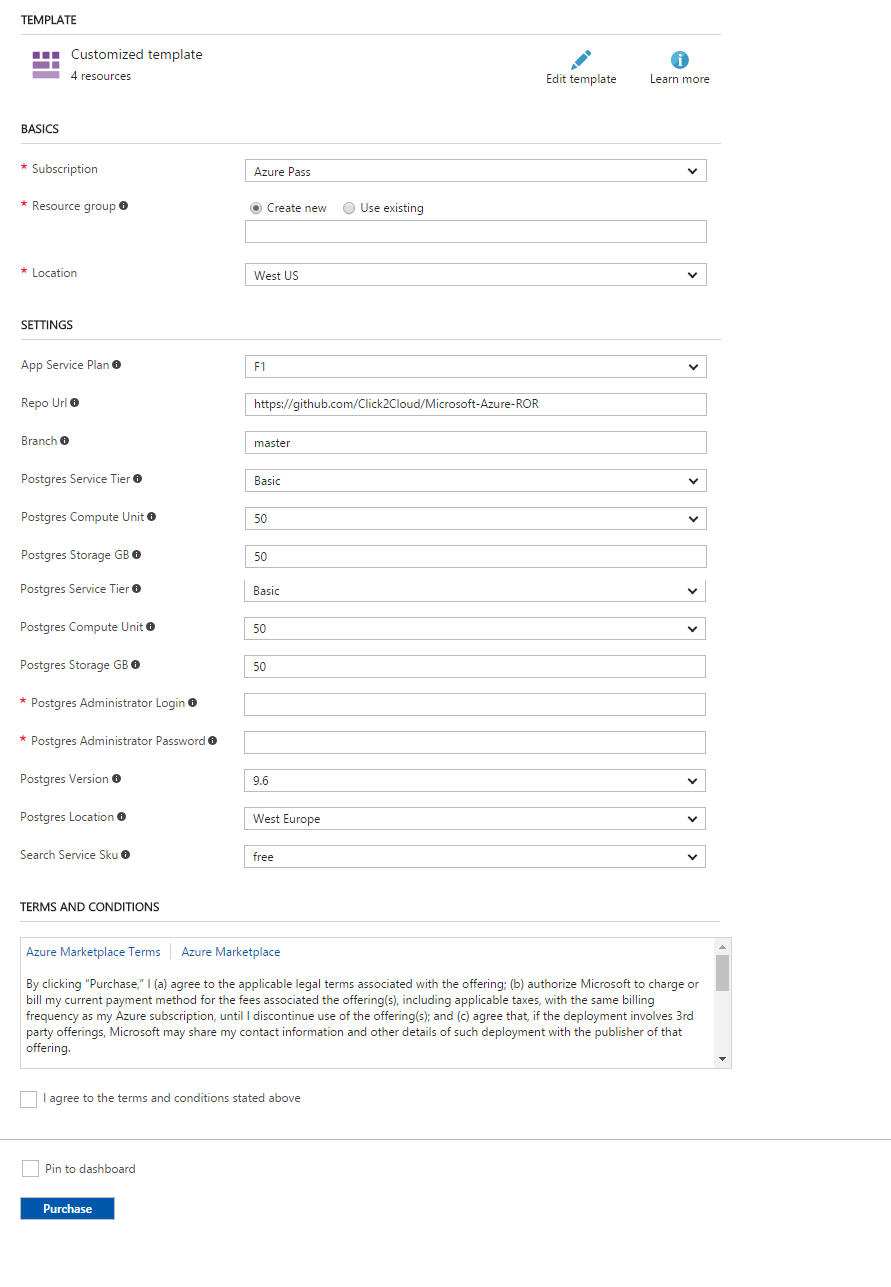
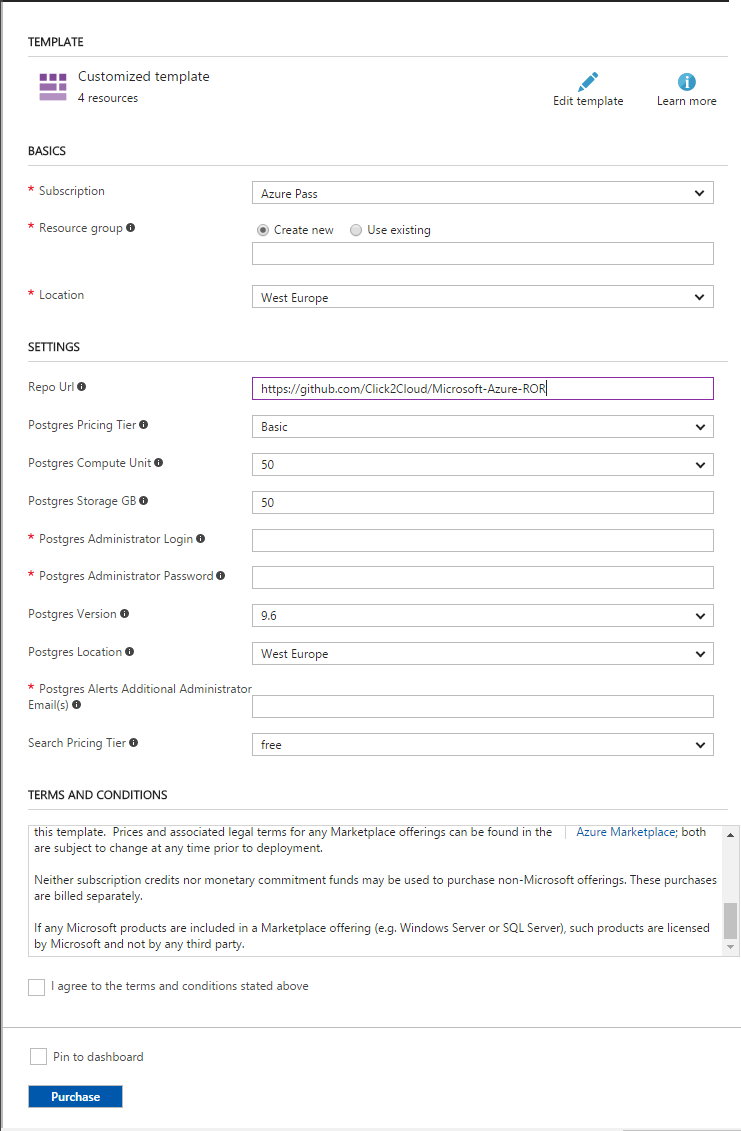
Update final

diff --git a/app/assets/javascripts/global.js b/app/assets/javascripts/global.js
@@ -62,7 +62,6 @@ var azureSearch = {
             },
             success: function (indexData) {
                 response = indexData.value
-                console.log(response)
                 if (response.length > 0) {
                     for (var i = 0; i < response.length; i++) {
                         var meetingContentHTML = '<div>' +

diff --git a/docs/ARMTemplate.md b/docs/ARMTemplate.md
@@ -27,85 +27,75 @@ Following steps provide the information about the ARM Template being used for de
           "type": "Microsoft.DBforPostgreSQL/servers",
           "sku": {
             "name": "[variables('skuNamePG')]",
-            "tier": "[parameters('postgresServiceTier')]",
+            "tier": "[parameters('postgresPricingTier')]",
             "capacity": "[parameters('postgresComputeUnit')]",
             "size": "[mul(parameters('postgresStorageGB'), 1024)]"
-          },
+            },
           "location": "[parameters('postgresLocation')]",
           "properties": {
             "version": "[parameters('postgresVersion')]",
             "administratorLogin": "[parameters('postgresAdministratorLogin')]",
             "administratorLoginPassword": "[parameters('postgresAdministratorPassword')]",
             "storageMB": "[mul(parameters('postgresStorageGB'), 1024)]"
-          },
+            },
           "resources": [
-            {
-              "apiVersion": "2017-04-30-preview",
-              "name": "[variables('databaseName')]",
-              "type": "databases",
-              "location": "[parameters('postgresLocation')]",
-              "tags": {
-                "displayName": "PSQLDatabase"
-              },
-              "dependsOn": [
-                "[resourceId('Microsoft.DBforPostgreSQL/servers', variables('serverName'))]"
-              ],
-              "properties": {
-              }
+          {
+            "apiVersion": "2017-04-30-preview",
+            "name": "[variables('databaseName')]",
+            "type": "databases",
+            "location": "[parameters('postgresLocation')]",
+            "tags": { "displayName": "PSQLDatabase" },
+            "dependsOn": [ "[resourceId('Microsoft.DBforPostgreSQL/servers', variables('serverName'))]" ],
+            "properties": {}
             },
             {
               "apiVersion": "2017-04-30-preview",
               "name": "PSQLServerFirewallRule",
               "type": "firewallrules",
               "location": "[parameters('postgresLocation')]",
-              "dependsOn": [
-                "[resourceId('Microsoft.DBforPostgreSQL/servers', variables('serverName'))]"
-              ],
+              "dependsOn": [ "[resourceId('Microsoft.DBforPostgreSQL/servers', variables('serverName'))]" ],
               "properties": {
                 "endIpAddress": "255.255.255.255",
                 "startIpAddress": "0.0.0.0"
-              }
+                }
             },
             {
               "type": "Microsoft.Insights/alertRules",
-              "name": "CPU-Alert",
-              "apiVersion": "2016-03-01",
-              "location": "[resourceGroup().location]",
-              "dependsOn": [
-                "[resourceId('Microsoft.DBforPostgreSQL/servers', variables('serverName'))]"
-              ],
-              "properties": {
-                  "name": "CPU-Alert",
-                  "description": "Default alert which notify when cpu percent is greater than 80%",
-                  "isEnabled": "true",
-                  "condition": {
-                      "odata.type": "Microsoft.Azure.Management.Insights.Models.ThresholdRuleCondition",
-                      "dataSource": {
-                          "odata.type": "Microsoft.Azure.Management.Insights.Models.RuleMetricDataSource",
-                          "resourceUri": "[resourceId('Microsoft.DBforPostgreSQL/servers', variables('serverName'))]",
-                          "metricName": "cpu_percent"
-                      },
-                      "operator": "GreaterThan",
-                      "threshold": "80",
-                      "windowSize": "00:05:00",
-                      "timeAggregation": "Average"
-                  },
-                  "actions": [
-                      {
-                          "odata.type": "Microsoft.Azure.Management.Insights.Models.RuleEmailAction",
-                          "sendToServiceOwners": "true"
-                      }
-                  ]
-              }
+                "name": "CPU-Alert",
+                "apiVersion": "2016-03-01",
+                "location": "[resourceGroup().location]",
+                "dependsOn": [ "[resourceId('Microsoft.DBforPostgreSQL/servers', variables('serverName'))]" ],
+                "properties": {
+                    "name": "CPU-Alert",
+                    "description": "Default alert which notify when cpu percent is greater than 80%",
+                    "isEnabled": "true",
+                    "condition": {
+                        "odata.type": "Microsoft.Azure.Management.Insights.Models.ThresholdRuleCondition",
+                        "dataSource": {
+                            "odata.type": "Microsoft.Azure.Management.Insights.Models.RuleMetricDataSource",
+                            "resourceUri": "[resourceId('Microsoft.DBforPostgreSQL/servers', variables('serverName'))]",
+                            "metricName": "cpu_percent"
+                        },
+                        "operator": "GreaterThan",
+                        "threshold": "80",
+                        "windowSize": "00:05:00",
+                        "timeAggregation": "Average"
+                        },
+                        "actions": [
+                        {
+                            "odata.type": "Microsoft.Azure.Management.Insights.Models.RuleEmailAction",
+                            "sendToServiceOwners": "true",
+                            "customEmails": "[variables('customEmails')]"
+                        }
+                    ]
+                }
             },
             {
                 "type": "Microsoft.Insights/alertRules",
                 "name": "Storage-Alert",
                 "apiVersion": "2016-03-01",
                 "location": "[resourceGroup().location]",
-                "dependsOn": [
-                    "[resourceId('Microsoft.DBforPostgreSQL/servers', variables('serverName'))]"
-                ],
+                "dependsOn": [ "[resourceId('Microsoft.DBforPostgreSQL/servers', variables('serverName'))]" ],
                 "properties": {
                     "name": "Storate_Alert",
                     "description": "Default alert which notify when storage percent is greater than 80%",
@@ -125,13 +115,13 @@ Following steps provide the information about the ARM Template being used for de
                     "actions": [
                         {
                             "odata.type": "Microsoft.Azure.Management.Insights.Models.RuleEmailAction",
-                            "sendToServiceOwners": "true"
+                            "sendToServiceOwners": "true",
+                            "customEmails": "[variables('customEmails')]"
                         }
                     ]
                 }
             }
-          ]
-        }
+        ]
         ``` 
         Note the important points about the above code block:-
         * The use of parameters ensures that the created resources are named and configured in a way that makes them consistent with one another.
@@ -151,7 +141,7 @@ Following steps provide the information about the ARM Template being used for de
           "location": "[resourceGroup().location]",
           "sku": 
           {
-            "name": "[toLower(parameters('searchServiceSku'))]"
+            "name": "[toLower(parameters('searchPricingTier'))]"
           }
       }
       ```
@@ -162,8 +152,8 @@ Following steps provide the information about the ARM Template being used for de
 
       ```json
       {
-          "apiVersion": "2015-08-01",
-          "name": "[variables('hostingPlanName')]",
+          "apiVersion": "2016-03-01",
+          "name": "[variables('servicePlanName')]",
           "type": "Microsoft.Web/serverfarms",
           "location": "[resourceGroup().location]",
           "tags": 
@@ -190,44 +180,41 @@ Following steps provide the information about the ARM Template being used for de
       ```json
           {
           "type": "Microsoft.Web/sites",
-          "name": "[parameters('appName')]",
+          "name": "[variables('appName')]",
           "apiVersion": "2016-03-01",
           "location": "[resourceGroup().location]",
           "properties": {
-            "name": "[parameters('appName')]",
+            "name": "[variables('appName')]",
             "serverFarmId": "[resourceId('Microsoft.Web/serverfarms', variables('servicePlanName'))]"
-          },
-          "dependsOn": [
-            "[resourceId('Microsoft.Web/serverfarms', variables('servicePlanName'))]"
-          ],
+            },
+          "dependsOn": [ "[resourceId('Microsoft.Web/serverfarms', variables('servicePlanName'))]" ],
           "resources": [
             {
-              "name": "appsettings",
-              "type": "config",
-              "apiVersion": "2016-03-01",
-              "dependsOn": [
-                "[resourceId('Microsoft.Web/sites', parameters('appName'))]",
-                "[resourceId('Microsoft.DBforPostgreSQL/servers/', variables('serverName'))]"
-
-              ],
-              "tags": {
-                "displayName": "appSettings"
-              },
-              "properties": {
-                "DOCKER_CUSTOM_IMAGE_NAME": "click2cloud/azure-rails",
-                "GITURL": "[parameters('repoUrl')]",
-                "POSTGRESCON": "[concat('postgres://', parameters('postgresAdministratorLogin'), '%40',  variables('serverName'), ':', uriComponent(parameters('postgresAdministratorPassword')), '@', reference(resourceId('Microsoft.DBforPostgreSQL/servers/', variables('serverName'))).fullyQualifiedDomainName, ':5432/', variables('databaseName'), '?sslmode=require')]"
-              }
-            }
-          ]
-        }
+                "name": "appsettings",
+                "type": "config",
+                "apiVersion": "2016-03-01",
+                "dependsOn": [
+                    "[resourceId('Microsoft.Web/sites', variables('appName'))]",
+                    "[resourceId('Microsoft.DBforPostgreSQL/servers/', variables('serverName'))]"
+                    ],
+                "tags": { "displayName": "appSettings" },
+                "properties": {
+                    "DOCKER_CUSTOM_IMAGE_NAME": "click2cloud/azure-rails",
+                    "GITURL": "[parameters('repoUrl')]",
+                    "postgresqlConnectionString": "[concat('postgres://', parameters('postgresAdministratorLogin'), '%40',  variables('serverName'), ':', uriComponent(parameters('postgresAdministratorPassword')), '@', reference(resourceId('Microsoft.DBforPostgreSQL/servers/', variables('serverName'))).fullyQualifiedDomainName, ':5432/', variables('databaseName'), '?sslmode=require')]",
+                    "searchServicePrimaryKey": "[listAdminKeys(resourceId('Microsoft.Search/searchServices', variables('searchServiceName')), '2015-08-19').primaryKey]",
+                    "searchServiceUri": "[concat('https://', variables('searchServiceName'), '.search.windows.net')]"
+                    }
+                }
+             ]
+          }
       ```
       Note that the type element specifies the string for an App Service and other elements and properties are filled in using the parameters defined in the JSON file.
       * The web app depends on three different resources. This means that Azure Resource Manager will create the web app only after the App Service plan, the PostgreSQL Database Server and Azure Search Service are created.
         ```json
         "dependsOn": 
         [
-            "[resourceId('Microsoft.Web/serverFarms/', variables('hostingPlanName'))]",
+            "[resourceId('Microsoft.Web/sites', variables('appName'))]",
             "[resourceId('Microsoft.DBforPostgreSQL/servers/', variables('serverName'))]",
             "[resourceId('Microsoft.Search/searchServices', variables('searchServiceName'))]"
         ],

diff --git a/docs/AppDirectoryStructure.md b/docs/AppDirectoryStructure.md
@@ -9,11 +9,11 @@ Following steps provide the information about code structure: -
 
 1.	Now you can view the directory structure of the Day Planner App in `Solution Explorer` window.
 
-    ![](img/image-25.png)
+    ![](img/image-25.PNG)
 
 1.	The `app` directory is the main and most important directory contains __model, view__ and __controller__ of Day Planner App.
 
-    ![](img/image-26.png)
+    ![](img/image-26.PNG)
 
 1.	The `assets` directory contains the images, javascripts and stylesheets which are exposed to client.<br/>
     This directory contains some sub-directories, they are as follows:- <br/>
@@ -21,7 +21,7 @@ Following steps provide the information about code structure: -
     - __`javascripts`__ :- Contains all JavaScript files which make our app interactive.
     - __`stylesheets`__ :- Contains all css files.
 
-    ![](img/image-27.png)
+    ![](img/image-27.PNG)
 
 1.  The `controller` directory contains controllers used in this application, It handles a web request from the user.<br/>
     The `waypoint_controller.rb` file contains:-
@@ -30,36 +30,36 @@ Following steps provide the information about code structure: -
     - Interface to perform actions on __Azure Search Service__<br/>
     - Sample data creation on __Azure Search Service__<br/>
 
-    ![](img/image-28.png)
+    ![](img/image-28.PNG)
 
 1.  The `helper` sub-directory holds any helper classes used to assist the model, view, and controller classes. This helps to keep the model, view, and controller code small, focused, and uncluttered.
 
-    ![](img/image-29.png)
+    ![](img/image-29.PNG)
 
 1.  The `views` sub-directory holds the display templates to fill in with data from our application, convert to HTML, and return to the user's browser.
 
-    ![](img/image-30.png)
+    ![](img/image-30.PNG)
 
 1.	The `config` directory contains `locales` sub-directory having `routes.rb` file which helps in routing to determine how an application responds to a client's request to a particular endpoint, which is an URI (or path) and a specific HTTP request method (GET, POST, and so on).
 
-    ![](img/image-31.png)
+    ![](img/image-31.PNG)
 
 1.	The `config` directory contains `locales` sub-directory having `database.yml` file which includes **Azure Search Service API Key**, **Azure Search Service URL**, **Azure Search Service Index Name**, **Azure Search Service API Version** and **AzureDB for PostgreSQL Connection String**.<br/>
     The values for many config file keys are being retrieved from the environment variables that has been set up using ARM template, in the deployed application environment on 'Azure App Service'.<br/>
     If you require to make the changes in the Search API key, Search API Version and Postgres Connection string then this file will be helpful 
     
-    ![](img/image-32.png)
+    ![](img/image-32.PNG)
 
 1.	The `db` directory, Rails application will have model objects that access relational database tables. You can manage the relational database with scripts you create and place in this directory.
 
-    ![](img/image-33.png)
+    ![](img/image-33.PNG)
 
 1.	The `Gemfile` is a list of all gems that you want to include in the project. It is used with bundler (also a gem) to install, update, remove and otherwise manage your used gems.
 
-    ![](img/image-34.png)
+    ![](img/image-34.PNG)
 
 1.	The `docs` directory contains all the mark down (.md) files. These docs are helpful in understanding the app, integrated Azure services and the deployment strategy for the app.
 
-    ![](img/image-35.png)
+    ![](img/image-35.PNG)
 
 

diff --git a/docs/DeploymentInstructions.md b/docs/DeploymentInstructions.md
@@ -11,7 +11,7 @@ Perform following steps to Deploy Ruby on Rails web application in Azure and con
 3. Create new or use existing __Resource Group__. An Azure resource group is a logical container into which Azure resources like web apps, databases and storage accounts are deployed and managed. [Learn more here.](https://docs.microsoft.com/en-us/azure/azure-resource-manager/resource-group-portal)
 4. Select __Location__ from the available locations for resource group.
 5. Select __App Service Plan__. It is pricing model for hosting application, default value is set to __F1__ which represent free service.
-6. The __Repo Url__ is the GitHub repository url of web application. The default value is set to the current GitHub repository Url which contains sample Ruby on Rails application source code which connects with AzureDB for PostgreSQL Service and Azure Search service created with the ARM template. Leave as it is for this demo.
+6. The __Repo Url__ is the GitHub repository url of web application. The default value is set to the current GitHub repository url which contains sample Ruby on Rails application source code which connects with AzureDB for PostgreSQL Service and Azure Search service created with the ARM template. Leave as it is for this demo.
 
     ![](img/azure-deploy.png)
 

diff --git a/README.md b/README.md
@@ -16,7 +16,7 @@ The app also helps to search the near-by coffee shops to engagements by selectin
 If you don't have an Azure subscription, create a [free account](https://azure.microsoft.com/en-us/free/?WT.mc_id=A261C142F) before you begin.
 
 ## Deployment
-<a href="https://portal.azure.com/#create/Microsoft.Template/uri/https%3A%2F%2Fraw.githubusercontent.com%2Faniketpawar92%2FAzure-Services-ROR%2Fmaster%2Fdeploy%2Fazuredeploy.json" target="_blank">
+<a href="https://portal.azure.com/#create/Microsoft.Template/uri/https%3A%2F%2Fraw.githubusercontent.com%2FClick2Cloud%2FMicrosoft-Azure-ROR%2Fmaster%2Fdeploy%2Fazuredeploy.json" target="_blank">
       <img src="http://azuredeploy.net/deploybutton.png"/>
 </a>
 
